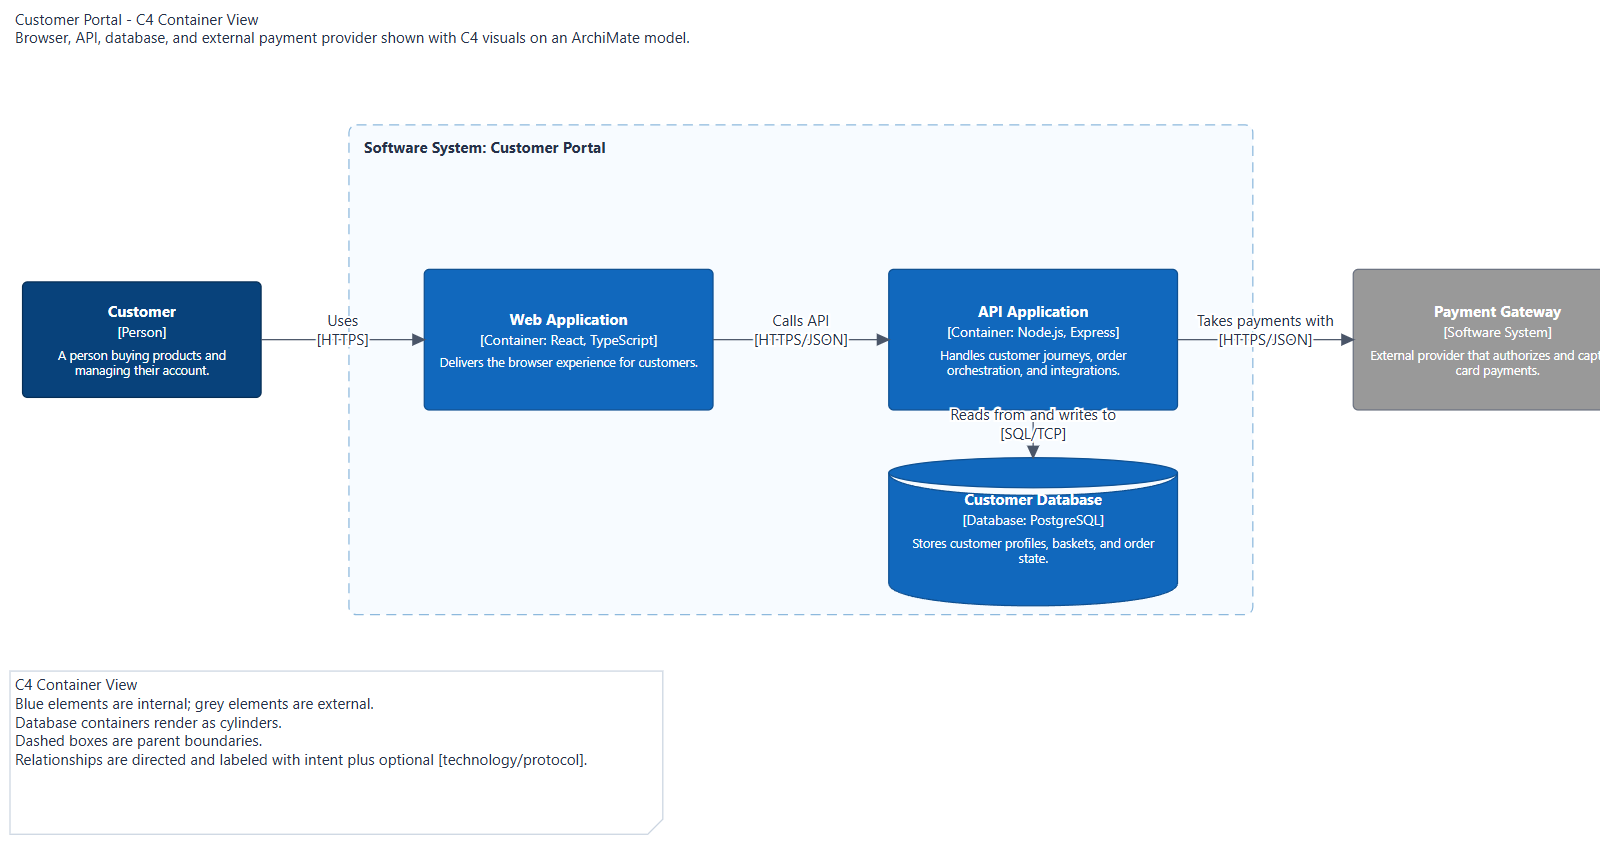
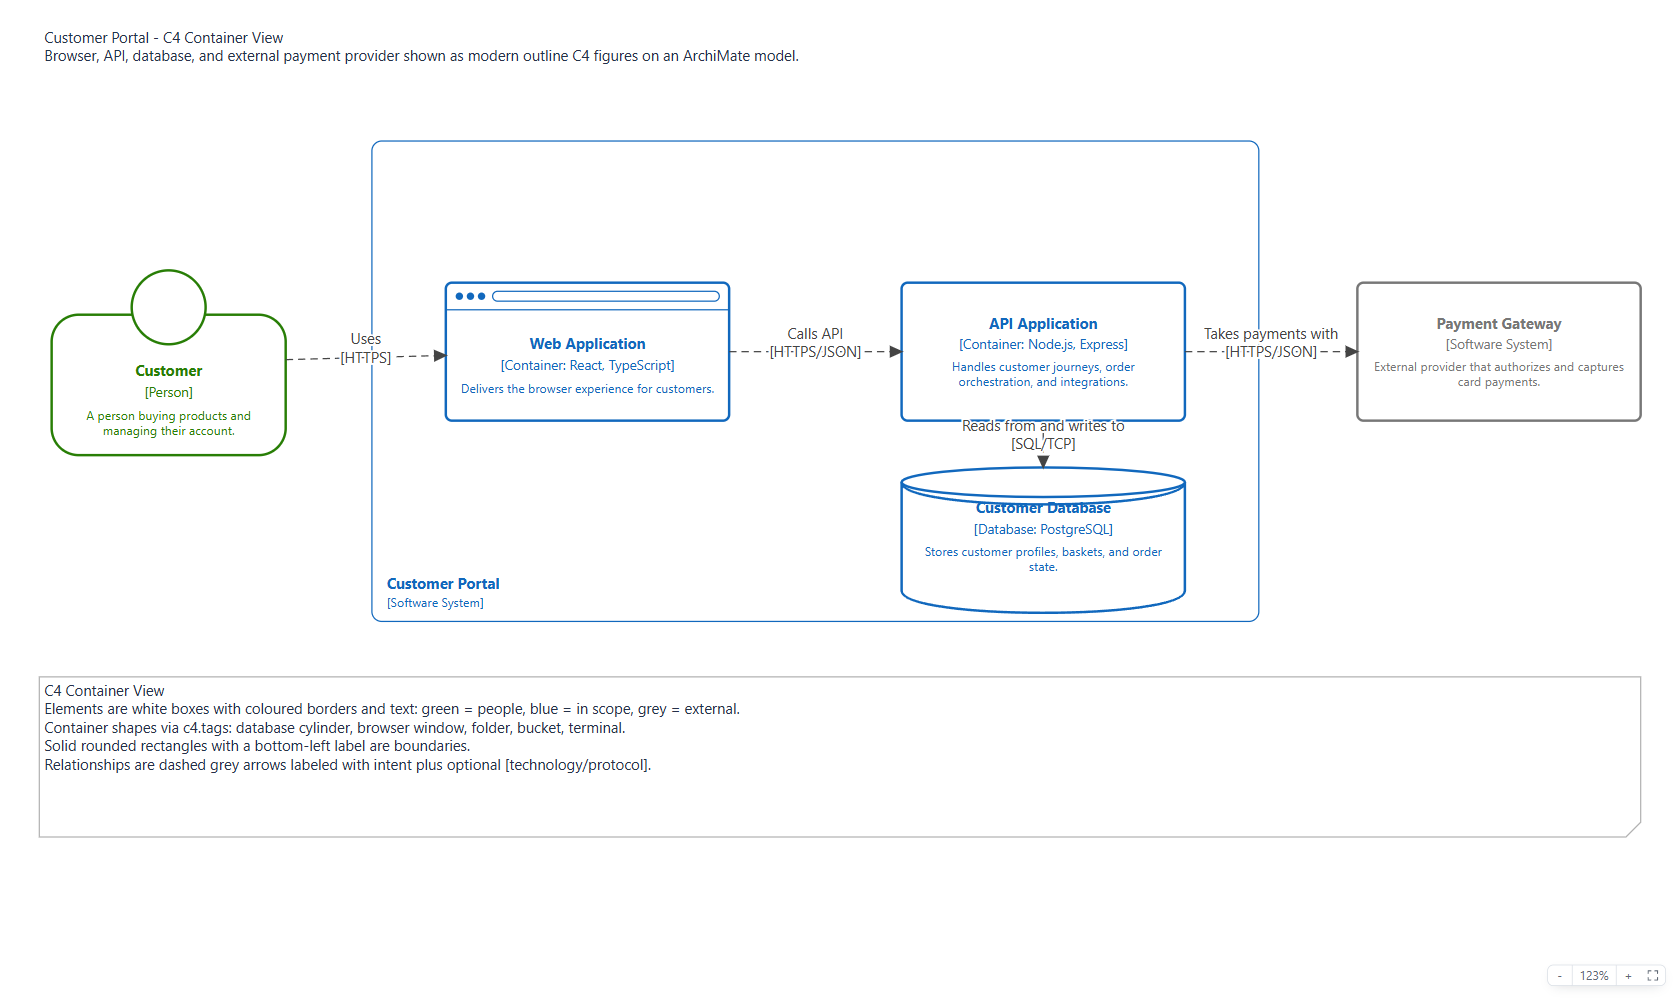
Update modern C4 example and docs

diff --git a/tests/archimate-xml.test.ts b/tests/archimate-xml.test.ts
@@ -1,7 +1,13 @@
 import { readFileSync } from 'node:fs';
 import { join } from 'node:path';
 import { describe, expect, it } from 'vitest';
-import { C4_PROPERTY_KEYS, c4KindForConcept, c4PropertyValue, c4ViewType } from '../src/model/c4';
+import {
+  C4_PROPERTY_KEYS,
+  c4KindForConcept,
+  c4LegendText,
+  c4PropertyValue,
+  c4ViewType,
+} from '../src/model/c4';
 import { parseArchimate, serializeArchimate } from '../src/model/io/archimate-xml';
 import { createEmptyModel } from '../src/model/ops';
 import type { ModelState } from '../src/model/types';
@@ -137,6 +143,44 @@ describe('C4 customer portal example', () => {
 
   it('has no dangling references', () => {
     expectReferencesResolve(m);
+  });
+
+  it('persists the modern C4 shapes, colors, and legend', () => {
+    const web = m.elements['id-c4-web-application'];
+    expect(c4PropertyValue(web.properties, C4_PROPERTY_KEYS.tags)).toBe('browser');
+
+    expect(m.nodes['id-c4-node-customer']).toMatchObject({
+      fillColor: '#FFFFFF',
+      lineColor: '#287E06',
+      fontColor: '#287E06',
+      bounds: { x: 70, y: 230, width: 190, height: 150 },
+    });
+
+    for (const id of [
+      'id-c4-node-portal',
+      'id-c4-node-web',
+      'id-c4-node-api',
+      'id-c4-node-db',
+    ]) {
+      expect(m.nodes[id]).toMatchObject({
+        fillColor: '#FFFFFF',
+        lineColor: '#1168BD',
+        fontColor: '#1168BD',
+      });
+    }
+
+    expect(m.nodes['id-c4-node-payment']).toMatchObject({
+      fillColor: '#FFFFFF',
+      lineColor: '#777777',
+      fontColor: '#777777',
+    });
+    for (const connection of Object.values(m.connections)) {
+      expect(connection).toMatchObject({ lineColor: '#444444', fontColor: '#444444' });
+    }
+    expect(m.nodes['id-c4-note-legend']).toMatchObject({
+      nodeType: 'note',
+      content: c4LegendText('container'),
+    });
   });
 });
 

diff --git a/docs/wiki/C4-Modeling.md b/docs/wiki/C4-Modeling.md
@@ -23,9 +23,16 @@ and choose **New C4 View**. The built-in templates cover:
 - Dynamic
 
 When a C4 view is active, the palette shows C4 shortcuts for Person, Software
-System, Container, Component, Deployment Node, Infrastructure Node, and Database.
-The Database shortcut is still a C4 Container; it adds the `c4.tags=database`
-property.
+System, Container, Component, Deployment Node, Infrastructure Node, Database,
+Web Browser, Folder, and Bucket. Database, Web Browser, Folder, and Bucket are
+all C4 Containers backed by `ApplicationComponent`; their shortcuts add the
+`database`, `browser`, `folder`, or `bucket` value to `c4.tags`.
+
+For any selected C4 Container, use the **Shape** dropdown in the C4 section of
+the Properties panel to choose Default, Database, Web Browser, Folder, Bucket,
+or Terminal. Changing the shape replaces only a recognized shape tag. Choosing
+Default removes that shape tag, while `external` and any custom tags remain
+untouched.
 
 The C4 toolbar menu also provides:
 
@@ -41,16 +48,19 @@ C4 views use a Structurizr-style visual mode. The underlying model remains
 ArchiMate, but C4-tagged nodes in views with `c4.viewType` render with C4
 figures instead of ArchiMate corner icons:
 
-- Dark blue boxes are people.
-- Blue boxes are internal software systems, containers, and components.
-- Grey boxes are external elements, detected from `c4.external=true` or an
-  `external` tag in `c4.tags`.
-- Containers tagged with `database` in `c4.tags` render as database cylinders.
-- Parent software systems, containers, and deployment nodes render as pale
-  dashed boundaries labeled `Software System: Name`, `Container: Name`, or
-  `Deployment Node: Name`.
-- Relationships render as plain directed arrows with intent labels and optional
-  `[technology/protocol]` lines.
+- All modern C4 figures use white fills with colored outlines and text.
+- People use a green head-on-box figure.
+- In-scope software systems, containers, and components use blue outlines and
+  text.
+- External elements use grey outlines and text; they are detected from
+  `c4.external=true` or an `external` tag in `c4.tags`.
+- Containers can render as a database cylinder, browser window, folder, bucket,
+  or terminal when `c4.tags` contains the matching shape tag.
+- Parent software systems, containers, and deployment nodes render as solid
+  rounded boundaries with their label at the bottom-left, for example
+  `Software System: Name`, `Container: Name`, or `Deployment Node: Name`.
+- Relationships render as dashed grey directed arrows with intent labels and
+  optional `[technology/protocol]` lines.
 
 New C4 templates and palette-created C4 elements persist the default fill,
 line, and font colors so exported `.archimate` files look close to C4 in other
@@ -65,7 +75,11 @@ or connection takes precedence.
 | Person | `BusinessActor` | `c4.kind=person` |
 | Software System | `ApplicationComponent` | `c4.kind=software-system` |
 | Container | `ApplicationComponent` | `c4.kind=container` |
-| Data store | `ApplicationComponent` | `c4.kind=container`, `c4.tags=database`, `c4.technology=...` |
+| Database | `ApplicationComponent` | `c4.kind=container`, `c4.tags=database`, `c4.technology=...` |
+| Web Browser | `ApplicationComponent` | `c4.kind=container`, `c4.tags=browser`, `c4.technology=...` |
+| Folder | `ApplicationComponent` | `c4.kind=container`, `c4.tags=folder`, `c4.technology=...` |
+| Bucket | `ApplicationComponent` | `c4.kind=container`, `c4.tags=bucket`, `c4.technology=...` |
+| Terminal | `ApplicationComponent` | `c4.kind=container`, `c4.tags=terminal`, `c4.technology=...` |
 | Component | `ApplicationFunction` | `c4.kind=component` |
 | Deployment node | `Node` | `c4.kind=deployment-node` |
 | Infrastructure node | `Node` | `c4.kind=infrastructure-node` |
@@ -99,13 +113,16 @@ Archi Online uses these stable profile keys:
 | `c4.viewType` | C4 view type on an ArchiMate view. |
 | `c4.scopeId` | Optional id or name of the scoped element. |
 | `c4.technology` | Technology, protocol, or runtime label. |
-| `c4.tags` | Comma-separated tags such as `database` or `external`. |
+| `c4.tags` | Comma-separated tags. `database`, `browser`, `folder`, `bucket`, and `terminal` select a Container shape; `external` selects external styling. Custom tags are preserved. |
 | `c4.external` | `true` for externally owned systems or services. |
 | `c4.instanceOf` | Source element for deployment instances. |
 | `c4.order` | Sequence number for dynamic relationships. |
 
 The Properties panel exposes these fields on C4 elements, relationships, and
-views. The raw values remain visible in the normal **Properties** tab.
+views. The raw values remain visible in the normal **Properties** tab. Shape
+tags change the figure only: the displayed kind stays `Container` for browser,
+folder, bucket, and terminal shapes. Only `database` changes the displayed kind
+label to `Database`.
 
 ## Labels
 